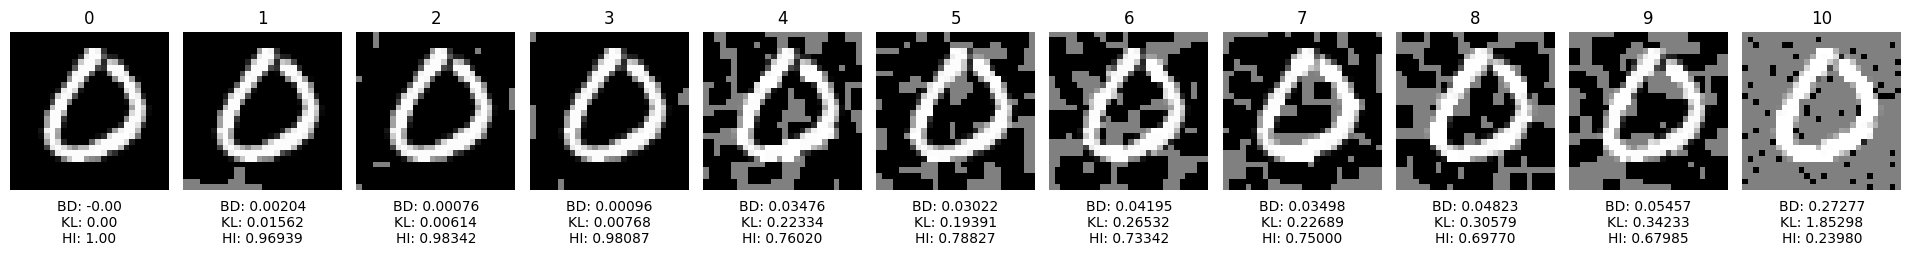
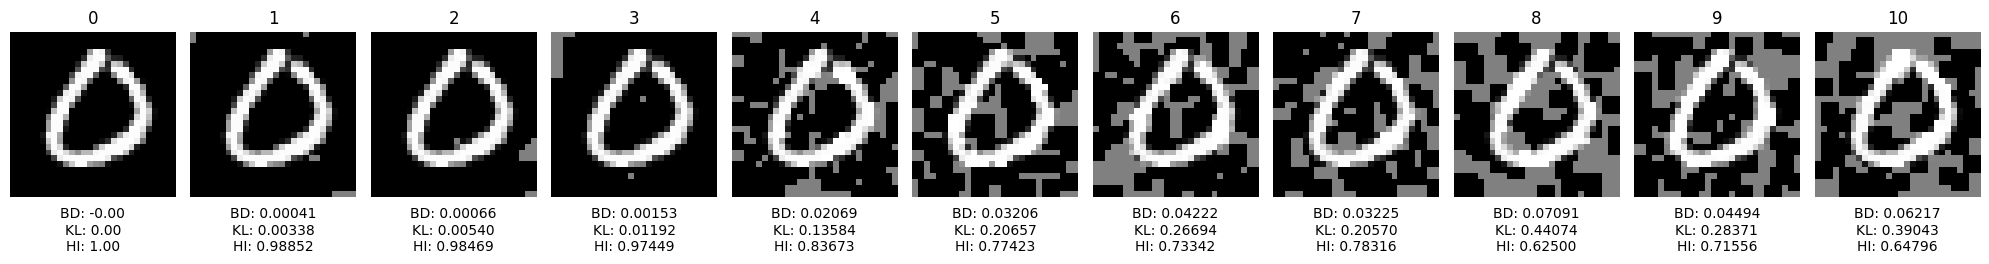
Added snow images

diff --git a/utils/perturbation_levels.py b/utils/perturbation_levels.py
@@ -150,15 +150,15 @@ PERTURBATION_LEVELS = {
             {'snow_level': 0.9, 'snow_color': 1.0, 'blur_kernel_size': 2, 'blur_sigma': 1.0}
         ],
     'zoom_blur': [
+        {'kernel_size': 1, 'strength': 1.0},
+        {'kernel_size': 2, 'strength': 1.0},
         {'kernel_size': 3, 'strength': 1.0},
-        {'kernel_size': 3, 'strength': 1.0},
-        {'kernel_size': 3, 'strength': 1.0},
-        {'kernel_size': 3, 'strength': 1.0},
-        {'kernel_size': 3, 'strength': 1.0},
-        {'kernel_size': 3, 'strength': 1.0},
-        {'kernel_size': 3, 'strength': 1.0},
-        {'kernel_size': 3, 'strength': 1.0},
-        {'kernel_size': 3, 'strength': 1.0},
-        {'kernel_size': 3, 'strength': 1.0}
+        {'kernel_size': 4, 'strength': 1.0},
+        {'kernel_size': 5, 'strength': 1.0},
+        {'kernel_size': 6, 'strength': 1.0},
+        {'kernel_size': 7, 'strength': 1.0},
+        {'kernel_size': 8, 'strength': 1.0},
+        {'kernel_size': 9, 'strength': 1.0},
+        {'kernel_size': 10, 'strength': 1.0}
     ]
 }

diff --git a/unit-tests/unit-tests.py b/unit-tests/unit-tests.py
@@ -18,8 +18,8 @@ from utils.perturbation_levels import PERTURBATION_LEVELS
 pt = Perturbation()
 # Note, (-1, 1) is the range of values for the MNIST dataset
 # perturbation type
-key = 'snow'
-num_bins = 10
+key = 'zoom_blur'
+num_bins = 60
 dm = DistanceMetric(num_channels=1, num_bins=num_bins, val_range=(-1,1))
 
 # show image
